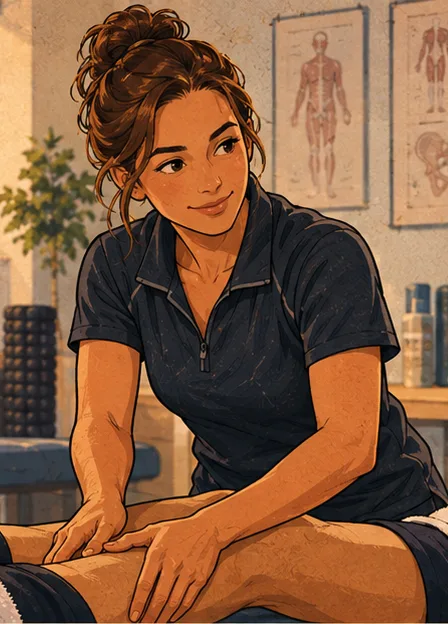
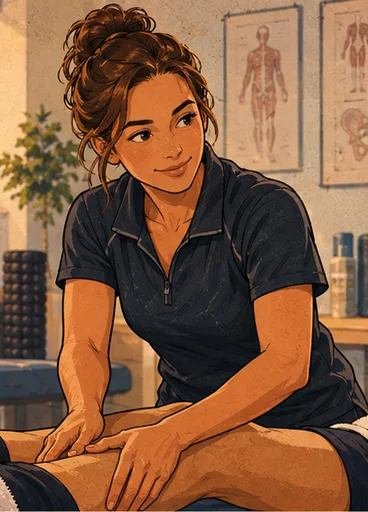
art: the four support portraits downscaled 448x624 -> 368x512, -36 KiB on a 3 KiB headroom
His ruling of 22.09 on the pairs sent to him. The 96px strip needs 288
physical px at 3x and gets 368; the floor arithmetic re-derived for the
shipped pair holds at 96.31 >= 96 and 136 stays the smallest integer that
does. The head-box fractions are scale-free, so object-position stands.

diff --git a/tests/component/round43-staff-portrait.test.ts b/tests/component/round43-staff-portrait.test.ts
@@ -15,10 +15,10 @@
 // window.
 //
 // ⚠⚠ AND THE RATIO IS THE WHOLE POINT OF THE FILE. The coach masters are 162x264 (w/h 0.614); these
-// are 448x624 (0.718) – a WIDER figure at the same height, so it fills a strip of the same width at
+// are 368x512 (0.719) – a WIDER figure at the same height, so it fills a strip of the same width at
 // a LOWER card height. Reading `.cm-row`'s 168 or `.cm-row.current`'s 196 across would have
 // over-floored this card by 32-60px and guaranteed nothing at all, because neither number is
-// derived from this ratio. 136 is: 96 x 624/448 + 2 = 135.71, and (136-2) x 448/624 = 96.20 >= 96.
+// derived from this ratio. 136 is: 96 x 512/368 + 2 = 135.57, and (136-2) x 368/512 = 96.31 >= 96.
 //
 // ⚠ WHAT THIS FILE DELIBERATELY DOES NOT ASSERT: that the head is inside the window at the card's
 // real height. happy-dom has no layout engine (see `fits.ts`), so a rendered containment cannot be
@@ -62,10 +62,11 @@ Object.defineProperty(globalThis, 'localStorage', {
 })
 
 /** THE MASTERS' OWN DIMENSIONS, and they are the only two numbers in this file that come from
- *  outside the cascade. Every `public/images/support-stuff/*.webp` is 448x624 (verified off the
- *  files' VP8 headers). The floor's whole job is to hold the inequality against THIS pair. */
-const ART_W = 448
-const ART_H = 624
+ *  outside the cascade. Every `public/images/support-stuff/*.webp` is 368x512 (verified off the
+ *  files' headers; 448x624 until 22.09's downscale – wave 10, his «давай оптимизируем», -36 KiB).
+ *  The floor's whole job is to hold the inequality against THIS pair. */
+const ART_W = 368
+const ART_H = 512
 /** …and the coach masters', quoted only so the "not the coach's arithmetic" test can say what it is
  *  refusing. `.cm-row`'s own floor is derived from 162/280 (round 42 #3: 280 is the taller master
  *  and therefore the narrowest picture for a given height, which makes it the honest worst case). */
@@ -216,7 +217,7 @@ describe('round 43 #2 – the support seats wear their portraits', () => {
     wrapper.unmount()
   })
 
-  it('the floor is derived from 448/624 – the picture can never be narrower than its strip', async () => {
+  it('the floor is derived from 368/512 – the picture can never be narrower than its strip', async () => {
     assertSheetPresent()
     const wrapper = await openStaff(hiredSnapshot())
 
@@ -238,7 +239,7 @@ describe('round 43 #2 – the support seats wear their portraits', () => {
       // exactly at the strip's right edge, so the clip is invisible only while the picture is at
       // least as wide as the strip; the picture is height-driven and `.staff-art` is `top: 0;
       // bottom: 0` of the PADDING box, so the narrowest picture this layout can produce is
-      // (floor - 2 borders) x 448/624.
+      // (floor - 2 borders) x 368/512.
       const narrowest = ((floor - 2) * ART_W) / ART_H
       expect(
         narrowest,
@@ -248,13 +249,13 @@ describe('round 43 #2 – the support seats wear their portraits', () => {
       // ⚠⚠ AND IT IS **THIS** RATIO'S FLOOR AND NOT THE COACH ROW'S, which is the half the inequality
       // alone cannot say: 168 and 196 also satisfy it, and either would be a number copied from a
       // different master. A floor derived from 162/280 for this strip would be 96 x 280/162 + 2 =
-      // 167.9 -> 168; ours is 135.7 -> 136, and the gap is the whole of «соотношение сторон будет
+      // 167.9 -> 168; ours is 135.6 -> 136, and the gap is the whole of «соотношение сторон будет
       // немного другое». Asserting the floor is UNDER the coach's is what fails if somebody
       // "harmonises" the two cards by giving this one the market row's number.
       const coachFloorForThisStrip = (strip * COACH_H) / COACH_W + 2
       expect(
         floor,
-        `the ${seat} floor is derived from 448/624 (${floor}), not from the coach masters' 162/280 (${coachFloorForThisStrip.toFixed(1)})`,
+        `the ${seat} floor is derived from 368/512 (${floor}), not from the coach masters' 162/280 (${coachFloorForThisStrip.toFixed(1)})`,
       ).toBeLessThan(coachFloorForThisStrip)
       // ...and it is the SMALLEST integer that holds the inequality, so it is a derivation and not a
       // round number that happens to work: one pixel less and the picture stops filling the strip.
@@ -324,9 +325,9 @@ describe('round 43 #2 – the support seats wear their portraits', () => {
 //      -> the porthole test: L = 0.342 at w = 0.62, far right of the head. The band is [0%, 42.1%]
 //         at that width, so anything past 42% reddens.
 //   4. `min-height: 136px` -> `min-height: 130px`
-//      -> the floor test: (130-2) x 448/624 = 91.90 < 96, the inequality fails by name.
+//      -> the floor test: (130-2) x 368/512 = 92.00 < 96, the inequality fails by name.
 //   5. `min-height: 136px` -> `min-height: 168px` (the coach row's number copied across)
-//      -> the floor test's "derived from 448/624, not from 162/280" arm: 168 is not < 167.9.
+//      -> the floor test's "derived from 368/512, not from 162/280" arm: 168 is not < 167.9.
 //         ⚠ THIS IS THE ARM THAT MATTERS MOST and the plain inequality cannot see it at all – 168
 //         satisfies the inequality comfortably, which is exactly how a number from another master
 //         survives a review.

diff --git a/src/components/SupportStaffTab.vue b/src/components/SupportStaffTab.vue
@@ -728,7 +728,7 @@ async function doSetFocus(): Promise<void> {
     <!-- ⭐⭐ ROUND 43 #2: THE SEAT'S FACE, on the coach strip's principle and by his own ruling - the
          market row's treatment since round 42 #3, at a different aspect ratio. His words are quoted
          in the script block above, where the house fence allows them; the arithmetic that re-derives
-         the floor for 448x624 is in `.staff-art` below. The strip is `position: absolute`, so it is
+         the floor for 368x512 is in `.staff-art` below. The strip is `position: absolute`, so it is
          out of the flex flow and the row's gap never applies to it, exactly as `.cm-art` is.
          ⚠ EMPTY `alt`, the coach row's own rule. The picture is decoration beside a name the card
          already prints - a screen reader that read «Masseur» and then «a masseur» would say the seat
@@ -894,11 +894,16 @@ async function doSetFocus(): Promise<void> {
      round-18 #2's, one ratio over: the picture is height-driven, the mask reaches transparent exactly
      at the strip's right edge, so the clip is invisible only while the picture is at least as wide as
      the strip. `.staff-art` is `top: 0; bottom: 0` of the PADDING box, so the narrowest picture this
-     layout can produce is (floor - 2 borders) x 448/624.
-         (136 - 2) x 448/624 = 134 x 0.717949 = 96.20 >= 96   <- the strip, filled
-     and 136 is the smallest integer that holds it: 96 x 624/448 + 2 = 135.71.
+     layout can produce is (floor - 2 borders) x 368/512.
+         (136 - 2) x 368/512 = 134 x 0.71875 = 96.31 >= 96   <- the strip, filled
+     and 136 is the smallest integer that holds it: 96 x 512/368 + 2 = 135.57.
+     ⚠ THE MASTER MOVED 22.09 (wave 10, his ruling - docs/decisions.md 22.09 #6; a .vue carries no
+     Cyrillic, so the words live there) – the four files shipped 448x624 until then and were
+     downscaled to 368x512 for -36 KiB of install; the ratio moved by half a thousandth
+     (0.7179 -> 0.7188), the floor did not, and the derivation above is written against the
+     SHIPPED files, which is the only pair the inequality is about.
      ⚠ THE COACH ROW'S ARITHMETIC IS THE SAME SENTENCE WITH THE OTHER MASTER – (196-2) x 162/280 =
-     112.24 >= 112 – and 162/280 is 0.579 against this 0.718. A wider figure at the same height fills
+     112.24 >= 112 – and 162/280 is 0.579 against this 0.719. A wider figure at the same height fills
      its window sooner, so the floor is LOWER here on a strip of the same width, and reading 168 or
      196 across would have over-floored this card by 32-60px for no guarantee at all.
      ⚠⚠ AND THE MEASURED CONSEQUENCE IS THAT THIS FLOOR BINDS EVERYWHERE, which is a real difference
@@ -957,8 +962,10 @@ async function doSetFocus(): Promise<void> {
    ⚠⚠ 30% IS MEASURED ON **THESE TWO MASTERS** AND ROUND 42 #3's «8-62%» IS NOT REUSED. That reading
    was taken off the sixteen coach masters - men framed head-on, short hair - and these are two women
    with hair well past the jaw, so it does not transfer. Read here off a percentage grid rendered over
-   each 448x624 master, taking the head box as the hair's outline at HEAD height (the top of the hair
-   through the chin) rather than the hair that falls onto the shoulders:
+   each master at its original 448x624 (the shipped files are the same frame downscaled to 368x512,
+   and picture FRACTIONS are scale-free, so the reading carries), taking the head box as the hair's
+   outline at HEAD height (the top of the hair through the chin) rather than the hair that falls onto
+   the shoulders:
        masseur        [0.16, 0.58]        psychologist  [0.20, 0.74]
    so the union both must fit inside is [0.16, 0.74] - 0.58 of the picture's width, against the coach
    masters' 0.54. ⚠ IT IS A READING OFF A GRID AND NOT A PIXEL TRACE: the edges are quoted to two

diff --git a/src/art/preload.ts b/src/art/preload.ts
@@ -317,7 +317,8 @@ export function coachUrlFor(background: FamilyBackground): string {
   return coachPortraitUrl(COACH_BY_BACKGROUND[background])
 }
 
-/** ⭐⭐ ROUND 43 #2 – THE SUPPORT SEATS' OWN PORTRAITS (448x624 webp), and the stem is the seat id.
+/** ⭐⭐ ROUND 43 #2 – THE SUPPORT SEATS' OWN PORTRAITS (368x512 webp since 22.09's downscale; drawn
+ *  at 448x624), and the stem is the seat id.
  *
  *  The owner drew four and shipped them himself (round 42 #53, «я положил в images/support stuff
  *  готовое»); the conversion landed and the PLACEMENT did not, so for one round the files were in
